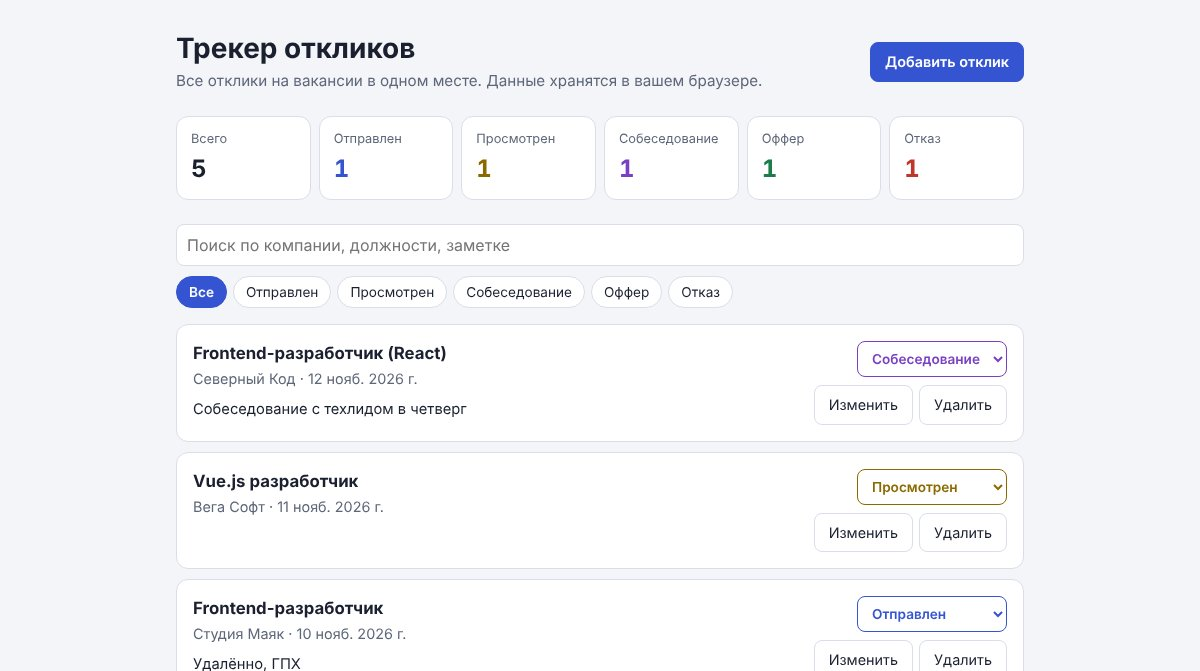
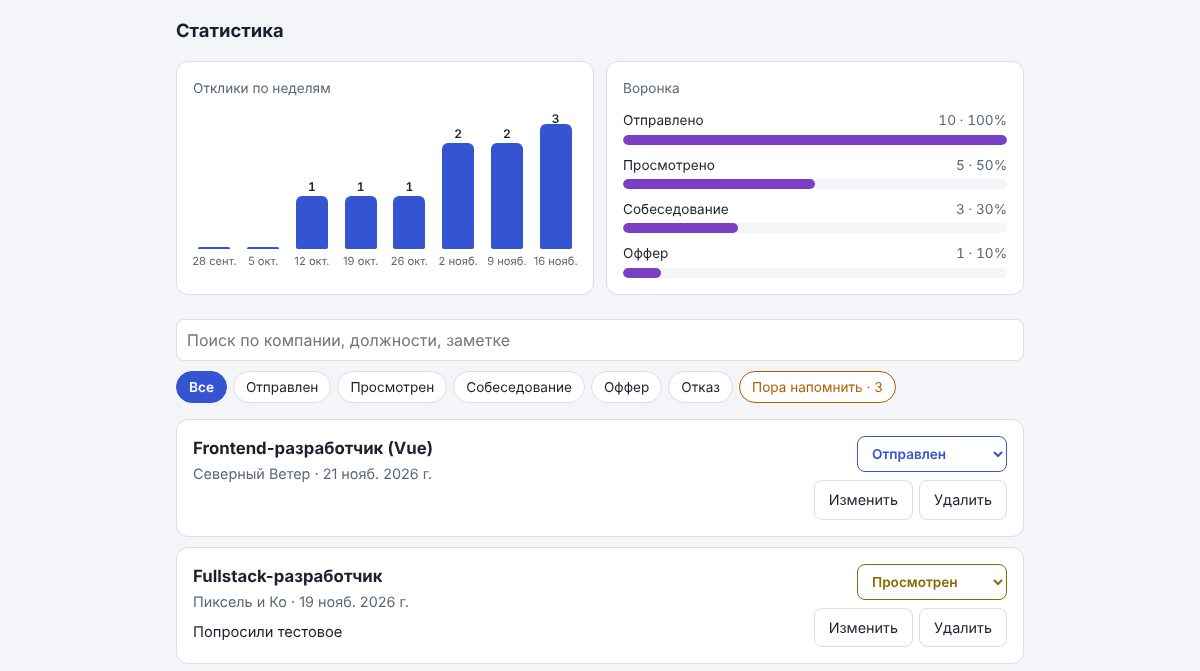
Добавлен проект Adrobot, обновлены описание и скриншот трекера, убран Next.js из навыков

diff --git a/index.html b/index.html
@@ -1067,7 +1067,6 @@
         <span class="skill">Vue.js</span>
         <span class="skill">Nuxt.js</span>
         <span class="skill">React</span>
-        <span class="skill">Next.js</span>
         <span class="skill">jQuery</span>
       </div>
     </div>
@@ -1246,7 +1245,7 @@
       <div class="project-info">
         <div class="project-meta" data-ru="2026 · Собственный проект" data-en="2026 · Personal project">2026 · Собственный проект</div>
         <h3 data-ru="Трекер откликов на вакансии" data-en="Job application tracker">Трекер откликов на вакансии</h3>
-        <p data-ru="Одностраничное приложение для учёта откликов: добавление и редактирование записей, статусы, поиск и фильтры, статистика, экспорт и импорт в JSON. Данные хранятся в браузере. Логика покрыта тестами, сборка и публикация настроены через GitHub Actions." data-en="Single-page app for tracking job applications: adding and editing entries, statuses, search and filters, statistics, JSON export and import. Data is stored in the browser. The logic is covered by tests; build and deployment run through GitHub Actions.">Одностраничное приложение для учёта откликов: добавление и редактирование записей, статусы, поиск и фильтры, статистика, экспорт и импорт в JSON. Данные хранятся в браузере. Логика покрыта тестами, сборка и публикация настроены через GitHub Actions.</p>
+        <p data-ru="Одностраничное приложение для учёта откликов: статусы, поиск и фильтры, график откликов по неделям и воронка до оффера, напоминания об откликах без ответа, экспорт в CSV и JSON, светлая и тёмная тема. Данные хранятся в браузере. Логика покрыта тестами, линтер, тесты и публикация запускаются через GitHub Actions." data-en="Single-page app for tracking job applications: statuses, search and filters, a weekly activity chart and an application-to-offer funnel, follow-up reminders, CSV and JSON export, light and dark themes. Data is stored in the browser. The logic is covered by tests; linting, tests and deployment run through GitHub Actions.">Одностраничное приложение для учёта откликов: статусы, поиск и фильтры, график откликов по неделям и воронка до оффера, напоминания об откликах без ответа, экспорт в CSV и JSON, светлая и тёмная тема. Данные хранятся в браузере. Логика покрыта тестами, линтер, тесты и публикация запускаются через GitHub Actions.</p>
         <div class="skill-tags">
           <span class="skill">React</span>
           <span class="skill">TypeScript</span>
@@ -1259,6 +1258,30 @@
             <span data-ru="Открыть приложение" data-en="Open the app">Открыть приложение</span>
           </a>
           <a href="https://github.com/gev566/job-tracker" target="_blank" rel="noopener" class="btn btn-outline">
+            <span data-ru="Код на GitHub" data-en="Code on GitHub">Код на GitHub</span>
+          </a>
+        </div>
+      </div>
+    </article>
+
+    <article class="project-card">
+      <a class="project-shot" href="https://github.com/gev566/keitaro-wrapper" target="_blank" rel="noopener">
+        <img src="project-keitaro.jpg" width="1200" height="671" loading="lazy" alt="Редактор потоков кампании в Adrobot" data-ru-alt="Редактор потоков кампании в Adrobot" data-en-alt="Adrobot campaign stream editor">
+      </a>
+      <div class="project-info">
+        <div class="project-meta" data-ru="2026 · Тестовое задание" data-en="2026 · Test assignment">2026 · Тестовое задание</div>
+        <h3 data-ru="Adrobot — обёртка над Keitaro" data-en="Adrobot — a Keitaro wrapper">Adrobot — обёртка над Keitaro</h3>
+        <p data-ru="Веб-приложение для работы с рекламным трекером Keitaro через Admin API: создание кампании с потоками, редактор офферов с черновиком, закреплением долей и публикацией, журнал публикаций. Проверено на реальном трекере. 19 тестов, миграции Alembic, запуск через Docker, тесты в GitHub Actions." data-en="Web app that works with the Keitaro ad tracker through its Admin API: creates campaigns with streams, edits offers as a draft with pinned shares and publishing, keeps a publish log. Tested against a live tracker. 19 tests, Alembic migrations, Docker setup, tests in GitHub Actions.">Веб-приложение для работы с рекламным трекером Keitaro через Admin API: создание кампании с потоками, редактор офферов с черновиком, закреплением долей и публикацией, журнал публикаций. Проверено на реальном трекере. 19 тестов, миграции Alembic, запуск через Docker, тесты в GitHub Actions.</p>
+        <div class="skill-tags">
+          <span class="skill">Python</span>
+          <span class="skill">FastAPI</span>
+          <span class="skill">SQLAlchemy</span>
+          <span class="skill">Vue 3</span>
+          <span class="skill">Docker</span>
+          <span class="skill">pytest</span>
+        </div>
+        <div class="project-links">
+          <a href="https://github.com/gev566/keitaro-wrapper" target="_blank" rel="noopener" class="btn btn-primary">
             <span data-ru="Код на GitHub" data-en="Code on GitHub">Код на GitHub</span>
           </a>
         </div>
